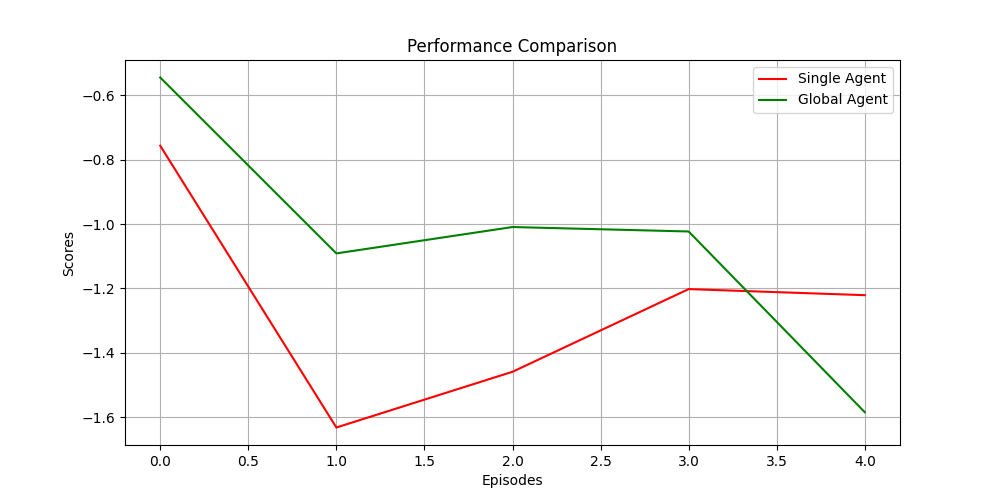
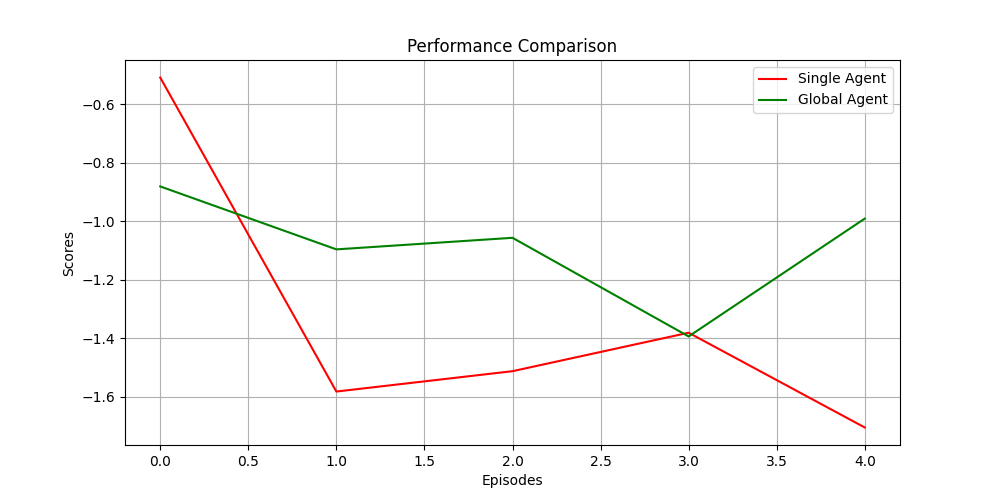
basic results

diff --git a/schedule.py b/schedule.py
@@ -246,7 +246,7 @@ class DeepRMTrainer(object):
     """DeepRM Trainer."""
 
     def __init__(self, environment):
-        self.episodes = 100
+        self.episodes = 5
         self.copy_steps = 32
         self.save_steps = 32
         self.epsilon = 0.99
